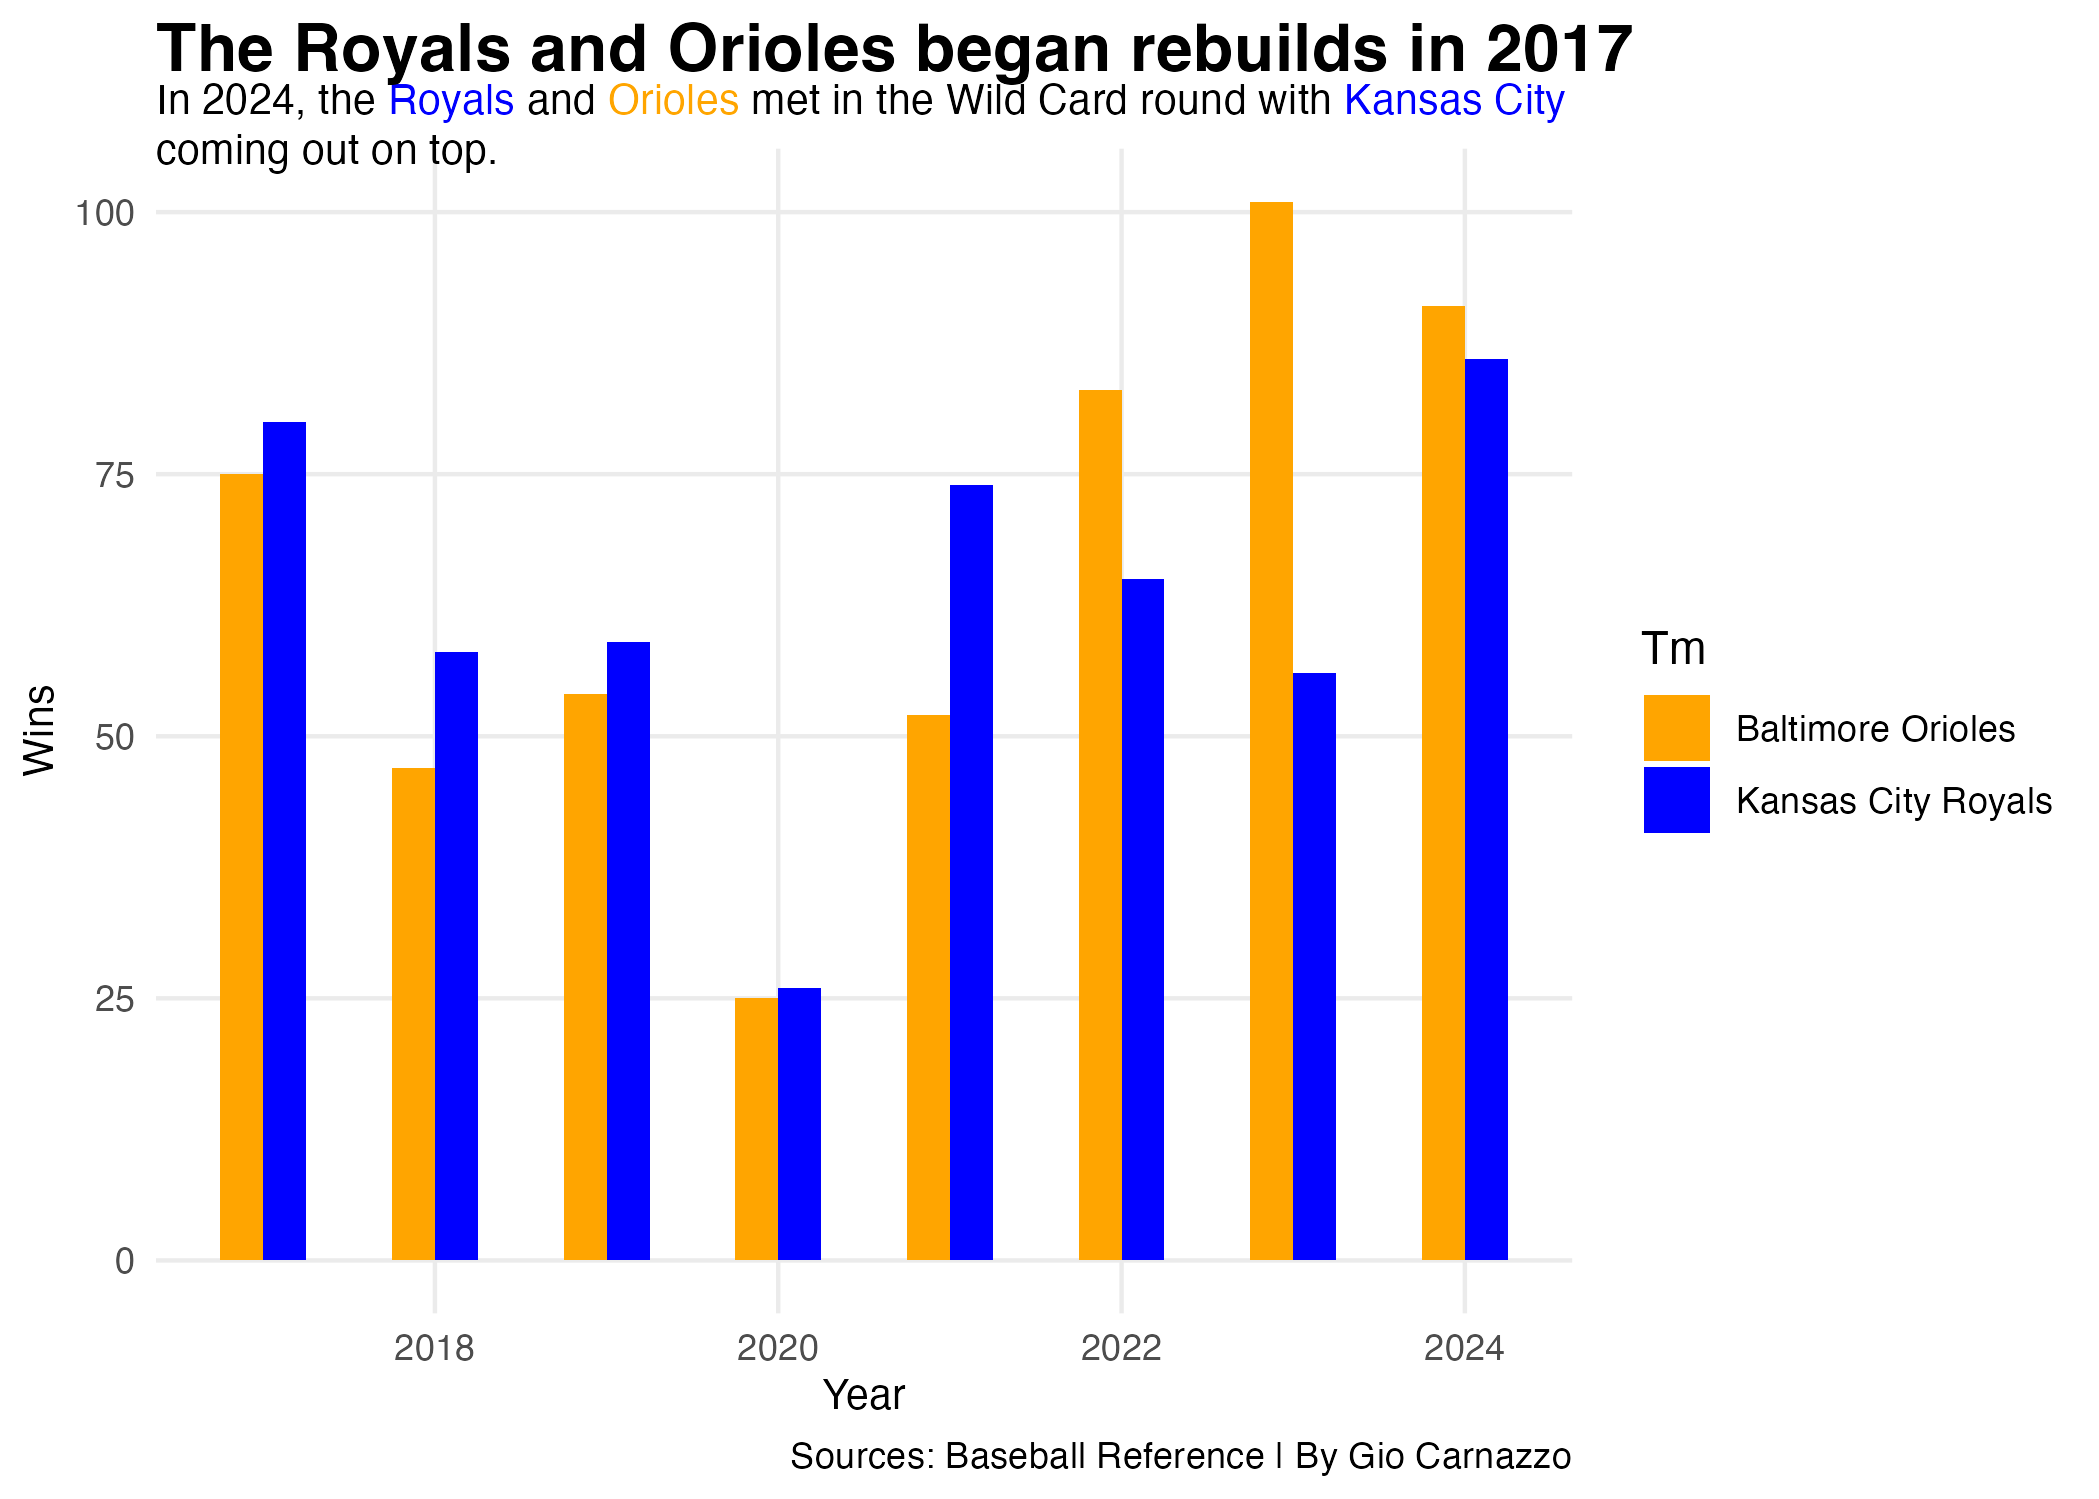
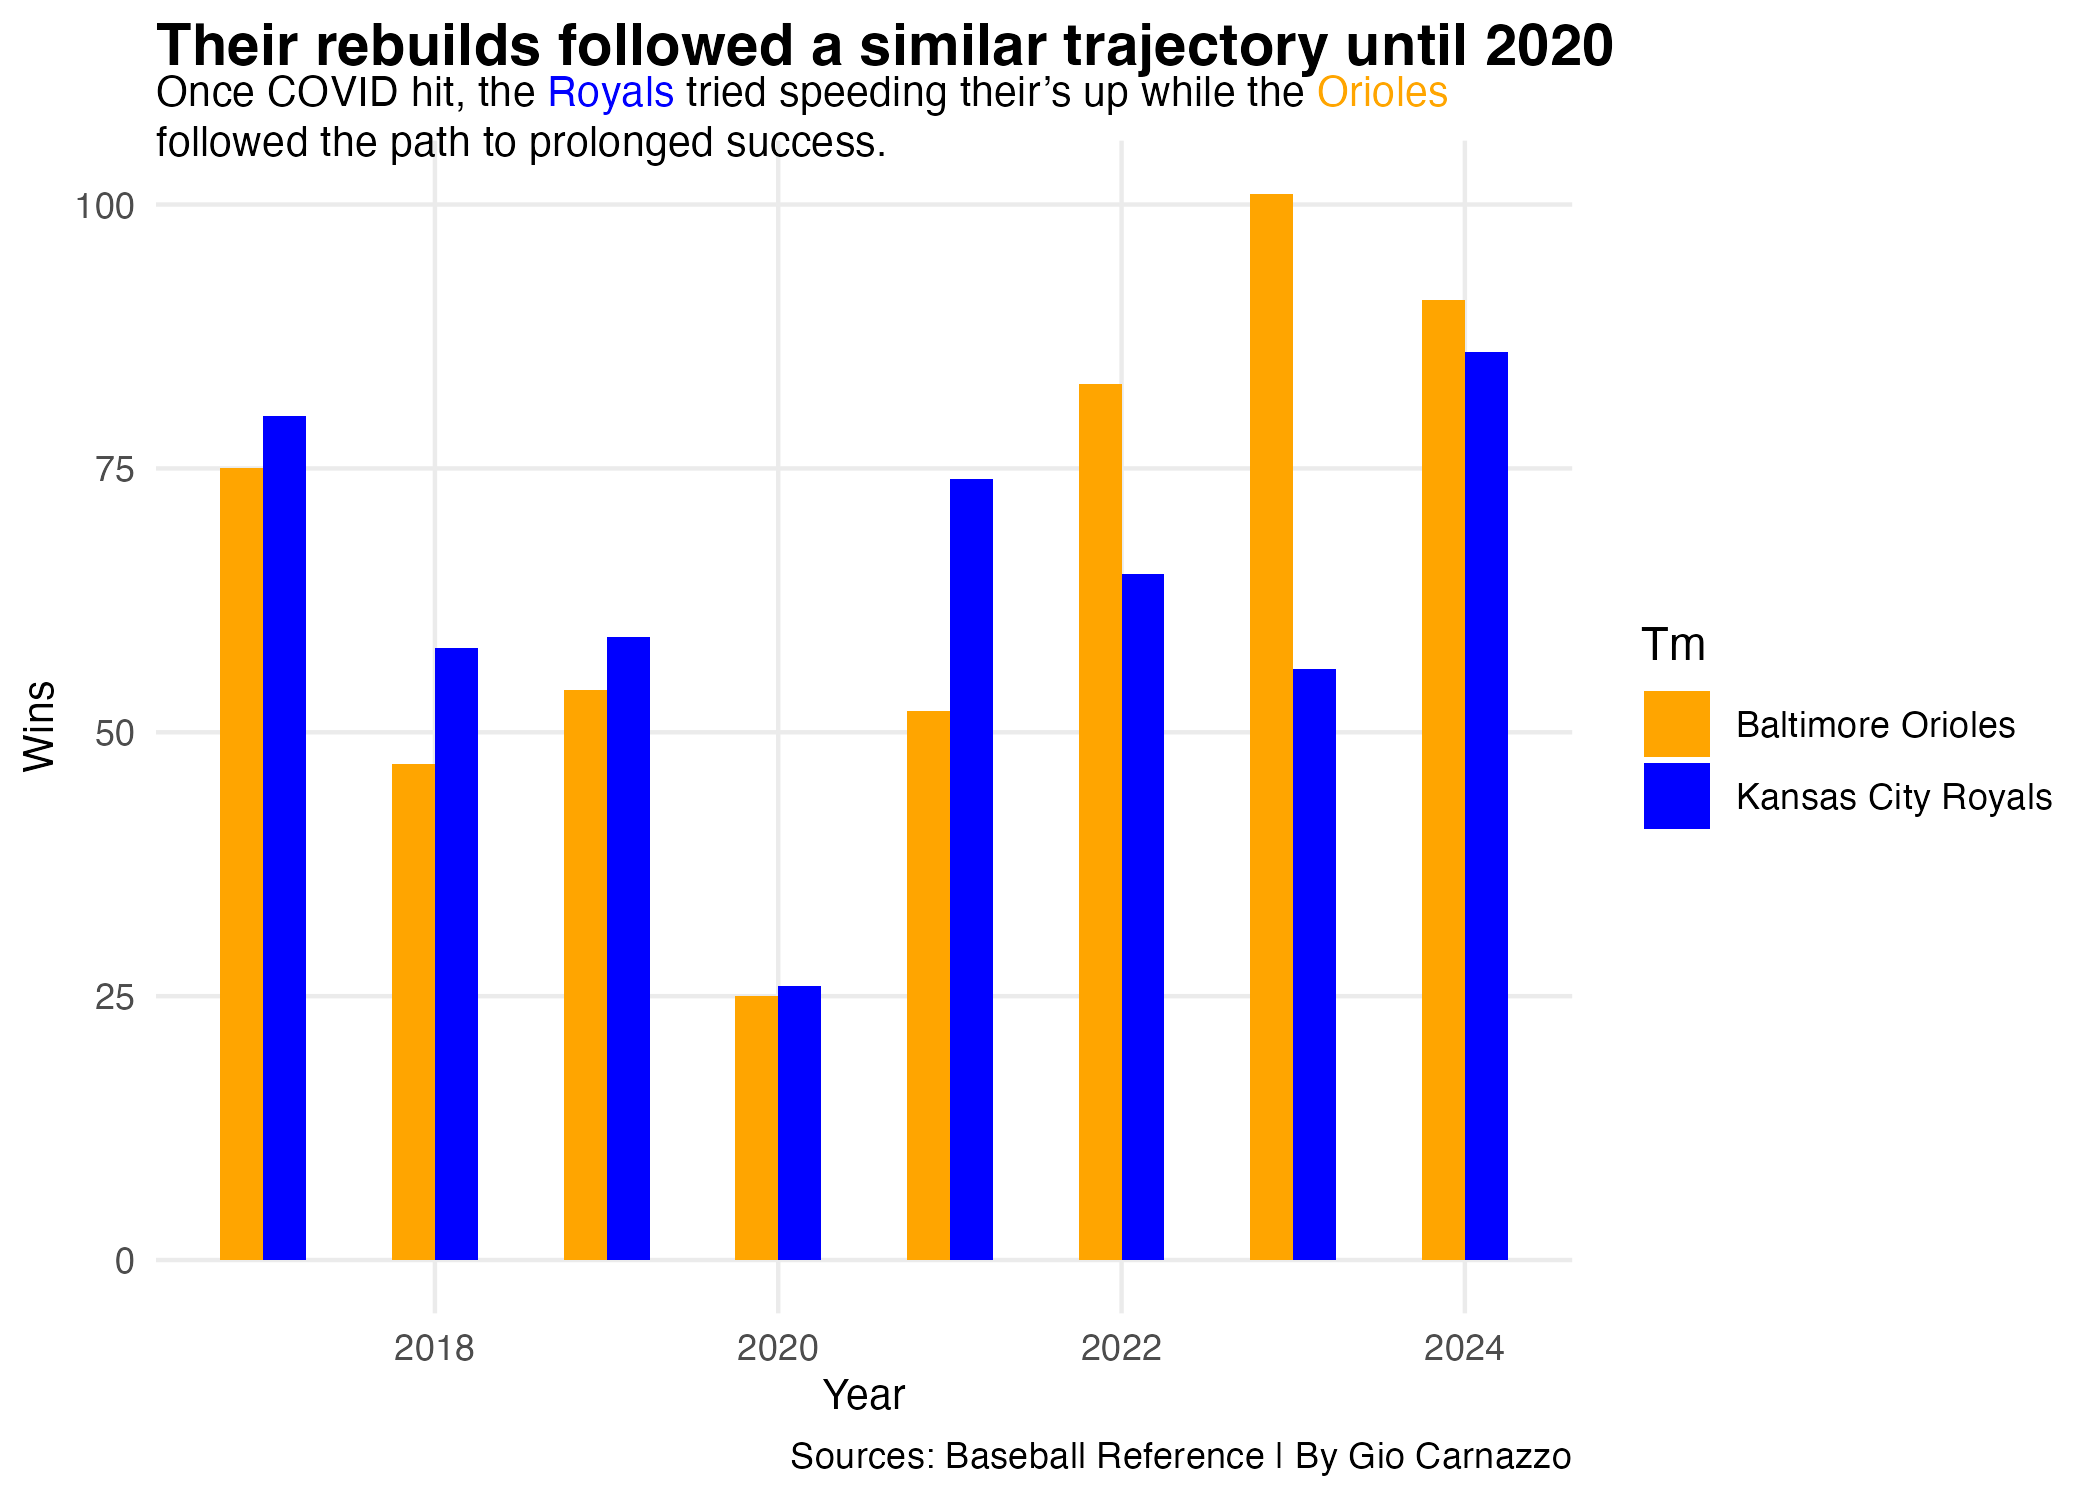
Done with first paragraph

diff --git a/posts/royals-orioles-baseball-mlb-rebuild/index.html b/posts/royals-orioles-baseball-mlb-rebuild/index.html
@@ -186,8 +186,11 @@ pre > code.sourceCode > span > a:first-child::before { text-decoration: underlin
 
 
 
-<p>The Kansas City Royals beat the Baltimore Orioles in the American League Division Series in 2024. Which team would you rather be heading into 2025?</p>
-<p>Here is more writing.</p>
+<p>The Kansas City Royals beat the Baltimore Orioles in the American League Wild Card Series in 2024. Which team would you rather be heading into 2025? The Royals swept Baltimore in the playoffs in October, but there is certainly a debate to be had.</p>
+<p>The two teams began their rebuilds under similar circumstances in 2017. Following back to back World Series appearances, the Kansas City Royals looked poised to potentially compete for another in 2016 with much of their core players returning. However, the team wound up being bang average. Finishing the year a disappointing 81-81.</p>
+<p>The O’s on the other hand won 89 games and got themselves a date with the Toronto Blue Jays in what was at the time still the Wild Card game. A heartbreaking loss in extras put them on the couch along with the 2015 champion Royals.</p>
+<p>Both organizations decided to give it one more go in 2017 to some extent with aging stars in the last years of their contracts, but the writing was on the wall. <a href="https://www.baseball-reference.com/leagues/majors/2024-standard-batting.shtml">Baseball Reference</a> puts the numbers for every big league hitter together. The site also includes player and team stats dating all the way back to before the live ball era. We are going to look at some to gauge the trajectory of the Royals and Orioles rebuilds and make an attempt at comparing them.</p>
+<p>The easiest way to do that is by first comparing the number of wins the two organizations had between 2017 and this most recent season.</p>
 <div class="cell">
 <details class="code-fold">
 <summary>Code</summary>
@@ -203,8 +206,8 @@ pre > code.sourceCode > span > a:first-child::before { text-decoration: underlin
 <span id="cb1-10"><a href="#cb1-10" aria-hidden="true" tabindex="-1"></a><span class="fu">ggplot</span>(<span class="at">data =</span> royals_orioles) <span class="sc">+</span></span>
 <span id="cb1-11"><a href="#cb1-11" aria-hidden="true" tabindex="-1"></a>  <span class="fu">geom_bar</span>(<span class="fu">aes</span>(<span class="at">x =</span> Year, <span class="at">y =</span> W, <span class="at">fill =</span> Tm), <span class="at">stat =</span> <span class="st">"identity"</span>, <span class="at">position =</span> <span class="st">"dodge"</span>, <span class="at">width =</span> <span class="fl">0.5</span>) <span class="sc">+</span></span>
 <span id="cb1-12"><a href="#cb1-12" aria-hidden="true" tabindex="-1"></a>  <span class="fu">labs</span>(</span>
-<span id="cb1-13"><a href="#cb1-13" aria-hidden="true" tabindex="-1"></a>    <span class="at">title =</span> <span class="st">"The Royals and Orioles began rebuilds in 2017"</span>,</span>
-<span id="cb1-14"><a href="#cb1-14" aria-hidden="true" tabindex="-1"></a>    <span class="at">subtitle =</span> <span class="st">"In 2024, the &lt;span style = 'color:blue;'&gt;Royals&lt;/span&gt; and &lt;span style = 'color:orange;'&gt;Orioles&lt;/span&gt; met in the Wild Card round with &lt;span style = 'color:blue;'&gt;Kansas City&lt;/span&gt; coming out on top."</span>,</span>
+<span id="cb1-13"><a href="#cb1-13" aria-hidden="true" tabindex="-1"></a>    <span class="at">title =</span> <span class="st">"Their rebuilds followed a similar trajectory until 2020"</span>,</span>
+<span id="cb1-14"><a href="#cb1-14" aria-hidden="true" tabindex="-1"></a>    <span class="at">subtitle =</span> <span class="st">"Once COVID hit, the &lt;span style = 'color:blue;'&gt;Royals&lt;/span&gt; tried speeding their's up while the &lt;span style = 'color:orange;'&gt;Orioles&lt;/span&gt; followed the path to prolonged success."</span>,</span>
 <span id="cb1-15"><a href="#cb1-15" aria-hidden="true" tabindex="-1"></a>    <span class="at">caption =</span> <span class="st">"Sources: Baseball Reference | By Gio Carnazzo"</span>,</span>
 <span id="cb1-16"><a href="#cb1-16" aria-hidden="true" tabindex="-1"></a>    <span class="at">x =</span> <span class="st">"Year"</span>,</span>
 <span id="cb1-17"><a href="#cb1-17" aria-hidden="true" tabindex="-1"></a>    <span class="at">y =</span> <span class="st">"Wins"</span></span>
@@ -212,7 +215,7 @@ pre > code.sourceCode > span > a:first-child::before { text-decoration: underlin
 <span id="cb1-19"><a href="#cb1-19" aria-hidden="true" tabindex="-1"></a>  <span class="fu">scale_fill_manual</span>(<span class="at">values =</span> <span class="fu">c</span>(<span class="st">"orange"</span>, <span class="st">"blue"</span>)) <span class="sc">+</span></span>
 <span id="cb1-20"><a href="#cb1-20" aria-hidden="true" tabindex="-1"></a>  <span class="fu">theme_minimal</span>() <span class="sc">+</span></span>
 <span id="cb1-21"><a href="#cb1-21" aria-hidden="true" tabindex="-1"></a>  <span class="fu">theme</span>(</span>
-<span id="cb1-22"><a href="#cb1-22" aria-hidden="true" tabindex="-1"></a>    <span class="at">plot.title =</span> <span class="fu">element_text</span>(<span class="at">size =</span> <span class="dv">16</span>, <span class="at">face =</span> <span class="st">"bold"</span>),</span>
+<span id="cb1-22"><a href="#cb1-22" aria-hidden="true" tabindex="-1"></a>    <span class="at">plot.title =</span> <span class="fu">element_text</span>(<span class="at">size =</span> <span class="dv">14</span>, <span class="at">face =</span> <span class="st">"bold"</span>),</span>
 <span id="cb1-23"><a href="#cb1-23" aria-hidden="true" tabindex="-1"></a>    <span class="at">axis.title =</span> <span class="fu">element_text</span>(<span class="at">size =</span> <span class="dv">10</span>),</span>
 <span id="cb1-24"><a href="#cb1-24" aria-hidden="true" tabindex="-1"></a>    <span class="at">plot.subtitle =</span> <span class="fu">element_textbox_simple</span>(<span class="at">size =</span> <span class="dv">10</span>),</span>
 <span id="cb1-25"><a href="#cb1-25" aria-hidden="true" tabindex="-1"></a>    <span class="at">panel.grid.minor =</span> <span class="fu">element_blank</span>()</span>

diff --git a/index.html b/index.html
@@ -200,7 +200,7 @@ window.Quarto = {
 
 <div class="quarto-listing quarto-listing-container-default" id="listing-listing">
 <div class="list quarto-listing-default">
[2 lines of base64/hex data omitted]
 <div class="thumbnail">
 <p><a href="./posts/royals-orioles-baseball-mlb-rebuild/index.html" class="no-external"></a></p><a href="./posts/royals-orioles-baseball-mlb-rebuild/index.html" class="no-external">
 <p><img loading="lazy" src="./posts/royals-orioles-baseball-mlb-rebuild/image.png" class="thumbnail-image"></p>
@@ -228,7 +228,7 @@ baltimore orioles
 </div>
 </div>
 <div class="listing-description">
-<a href="./posts/royals-orioles-baseball-mlb-rebuild/index.html" class="no-external">The Kansas City Royals beat the Baltimore Orioles in the American League Division Series in 2024. Which team would you rather be heading into 2025?</a>
+<a href="./posts/royals-orioles-baseball-mlb-rebuild/index.html" class="no-external">The Kansas City Royals beat the Baltimore Orioles in the American League Wild Card Series in 2024. Which team would you rather be heading into 2025? The Royals swept…</a>
 </div>
 </div>
 <div class="metadata">
